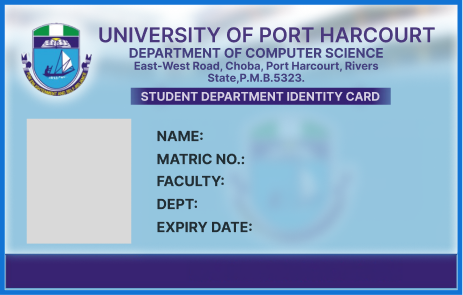
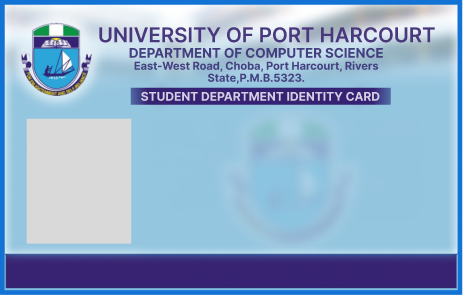
change image template

Changed region(s): [[0.3326, 0.5186, 0.514, 0.6407], [0.3326, 0.6712, 0.5443, 0.7932], [0.3326, 0.4271, 0.4536, 0.4881]]

diff --git a/departmental/components/RolesView.tsx b/departmental/components/RolesView.tsx
@@ -326,36 +326,41 @@ export const RolesView: React.FC = () => {
                       {/* Dynamic Text Overlays */}
                       {/* Dynamic Text Overlays aligned to UniPort Template */}
                       <div className="absolute left-[46.5%] top-[42.5%] w-[45%] text-[7px] font-bold text-black uppercase">
-                        <div className="flex flex-col gap-y-[8.5px] leading-none">
+                        <div className="grid grid-cols-[auto_1fr] gap-x-[4px] gap-y-[8.5px] leading-none">
                           {/* NAME */}
-                          <div className="text-left">
+                          <span />
+                          <span className="text-left">
                             <span>NAME: </span>
                             <span>{currentStudent?.name}</span>
-                          </div>
+                          </span>
 
                           {/* MATRIC NO */}
-                          <div className="text-left">
+                          <span />
+                          <span className="text-left">
                             <span>MATRIC NO.: </span>
                             <span>{currentStudent?.matric}</span>
-                          </div>
+                          </span>
 
                           {/* FACULTY */}
-                          <div className="text-left">
+                          <span />
+                          <span className="text-left">
                             <span>FACULTY </span>
                             <span>{currentStudent?.faculty}</span>
-                          </div>
+                          </span>
 
                           {/* DEPARTMENT */}
-                          <div className="text-left">
+                          <span />
+                          <span className="text-left">
                             <span>DEPT: </span>
                             <span>{currentStudent?.department}</span>
-                          </div>
+                          </span>
 
                           {/* EXPIRY DATE */}
-                          <div className="text-left">
+                          <span />
+                          <span className="text-left">
                             <span>EXPIRY DATE: </span>
                             <span>{currentStudent?.graduationDate}</span>
-                          </div>
+                          </span>
                         </div>
                       </div>
                     </div>
